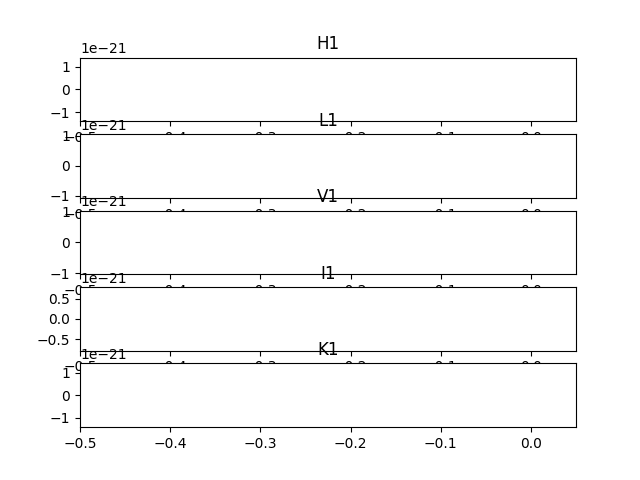
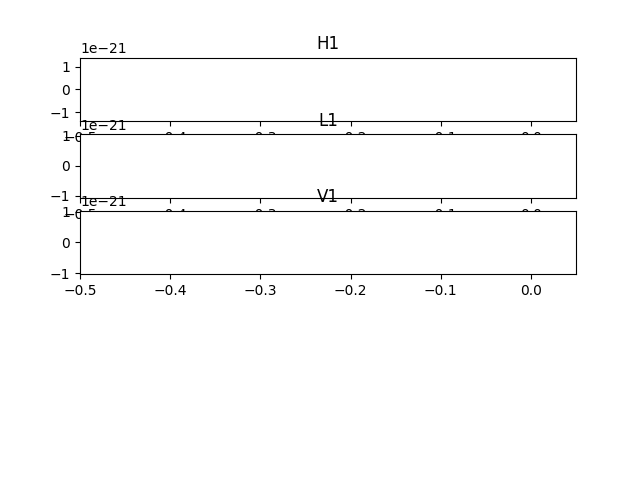
Precession

diff --git a/Precession/det_response.py b/Precession/det_response.py
@@ -9,7 +9,7 @@ fig = pyplot.figure()
 xmin=-0.5
 xmax=0.05
 
-for ifo in ['H1', 'L1', 'V1', 'I1', 'K1']:
+for ifo in ['H1', 'L1', 'V1']:
    ii+=1
    delta_t=1./2048
    fmin=20
